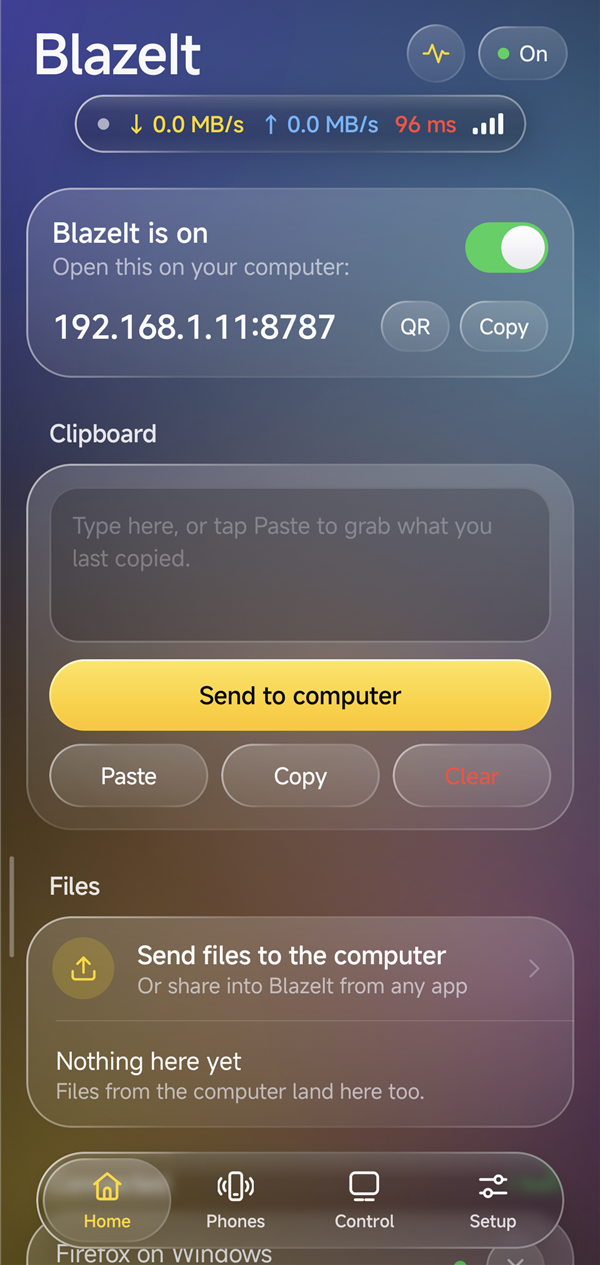
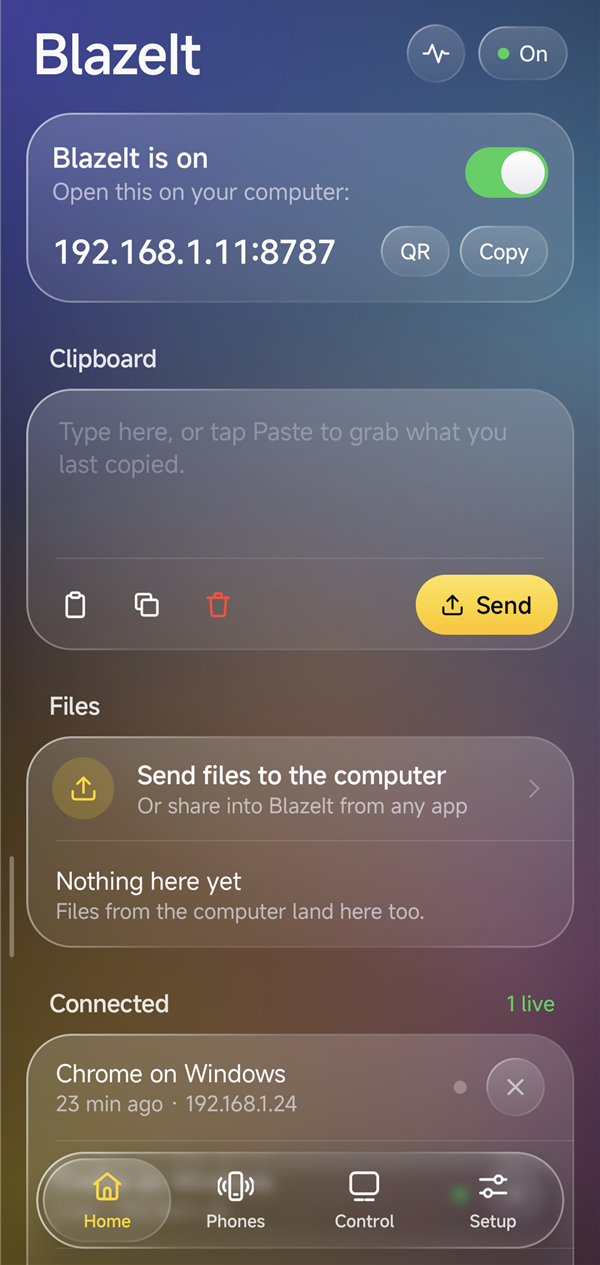
Clipboard: the button just says Send
The card sits under Clipboard, so where it sends is already clear. README's Home shot
shows the new clipboard.

diff --git a/app/src/main/java/dev/periy/bridge/ui/MainActivity.kt b/app/src/main/java/dev/periy/bridge/ui/MainActivity.kt
@@ -580,7 +580,7 @@ private fun ClipboardPanel(shared: String, status: String, vm: MainViewModel) {
             ) {
                 Icon(BlazeIcons.Upload, null, tint = Bridge.OnYellow, modifier = Modifier.size(17.dp))
                 Spacer(Modifier.width(6.dp))
-                Text("Send to computer", style = TextStyle(fontSize = 14.5.sp, fontWeight = FontWeight.SemiBold), color = Bridge.OnYellow, maxLines = 1)
+                Text("Send", style = TextStyle(fontSize = 14.5.sp, fontWeight = FontWeight.SemiBold), color = Bridge.OnYellow, maxLines = 1)
             }
         }
         if (status.isNotEmpty()) {
